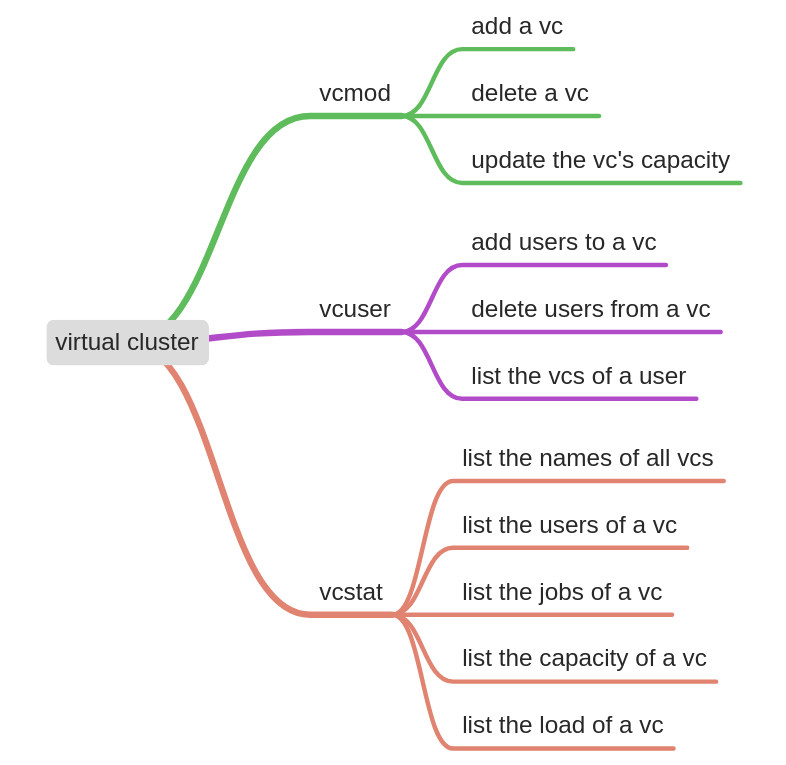
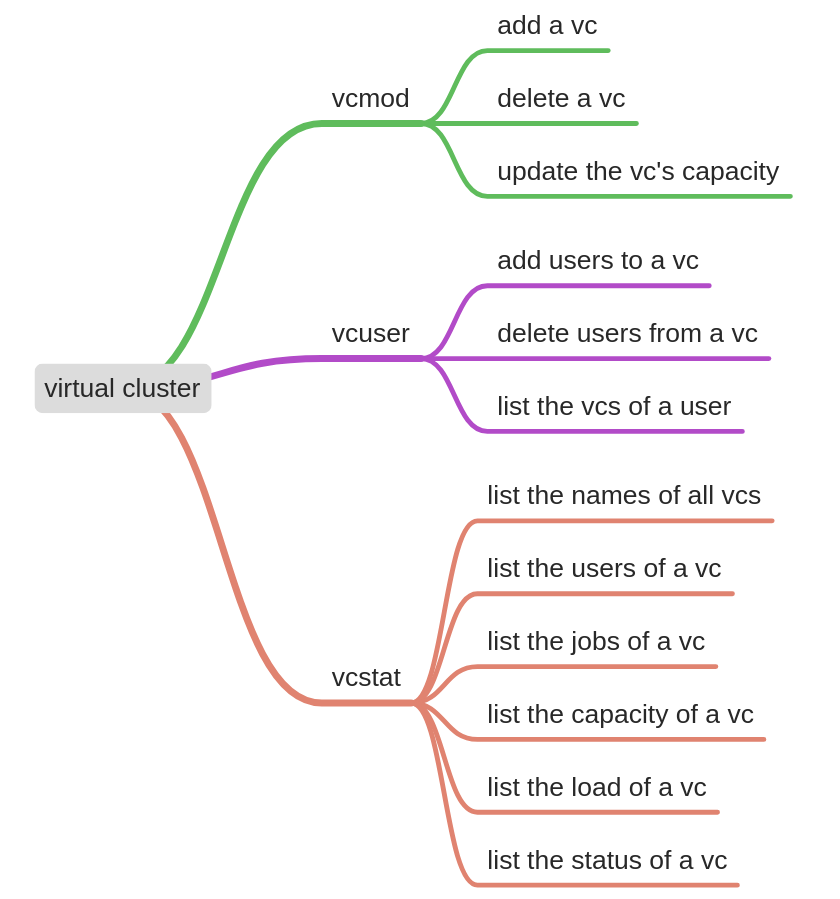
refine design of vc

Changed region(s): [[0.0305, 0.0, 0.9466, 0.9922], [0.2443, 0.5412, 0.3359, 0.7516]]

diff --git a/docs/webportal/design-of-vc-update.md b/docs/webportal/design-of-vc-update.md
@@ -1,3 +1,5 @@
+
+
 ## 1. Overview
 
 提供可供管理员操作的Virtual Cluster（以下简称vc）的交互界面，提供可供普通用户查询vc详情的交互界面
@@ -116,6 +118,25 @@ const getUserVc = (username, virtualCluster, callback) => {
 ### 3.11 list the load of a vc
 
 现在已支持
+
+### 3.12 list the status of a vc
+
+![1546433519943](./vc_status.png)
+
+（1）新增一个“开关”，其状态展示了对应vc的状态
+
+（2）若用户是管理员，其可以改变”开关“状态
+
+（3）若改变状态失败，则弹出提示框
+
+## 4. Steps
+
+将上述功能分解为4个步骤：
+
+1. 基本功能实现，可以增、删、改、查
+2. 批量增加vc
+3. 用户列表查看和更新
+4. 用户不具有权限的vc将被置灰
 
 
 
